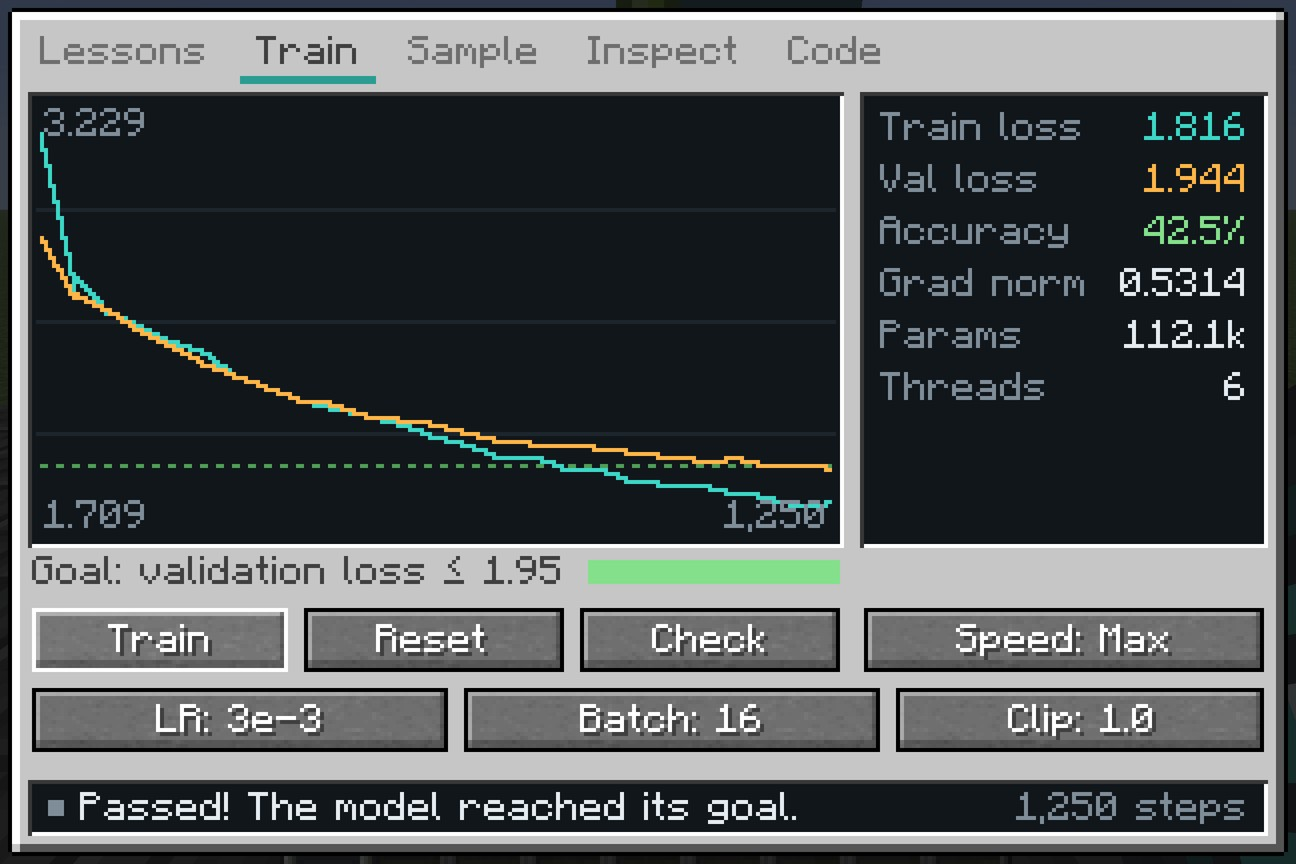
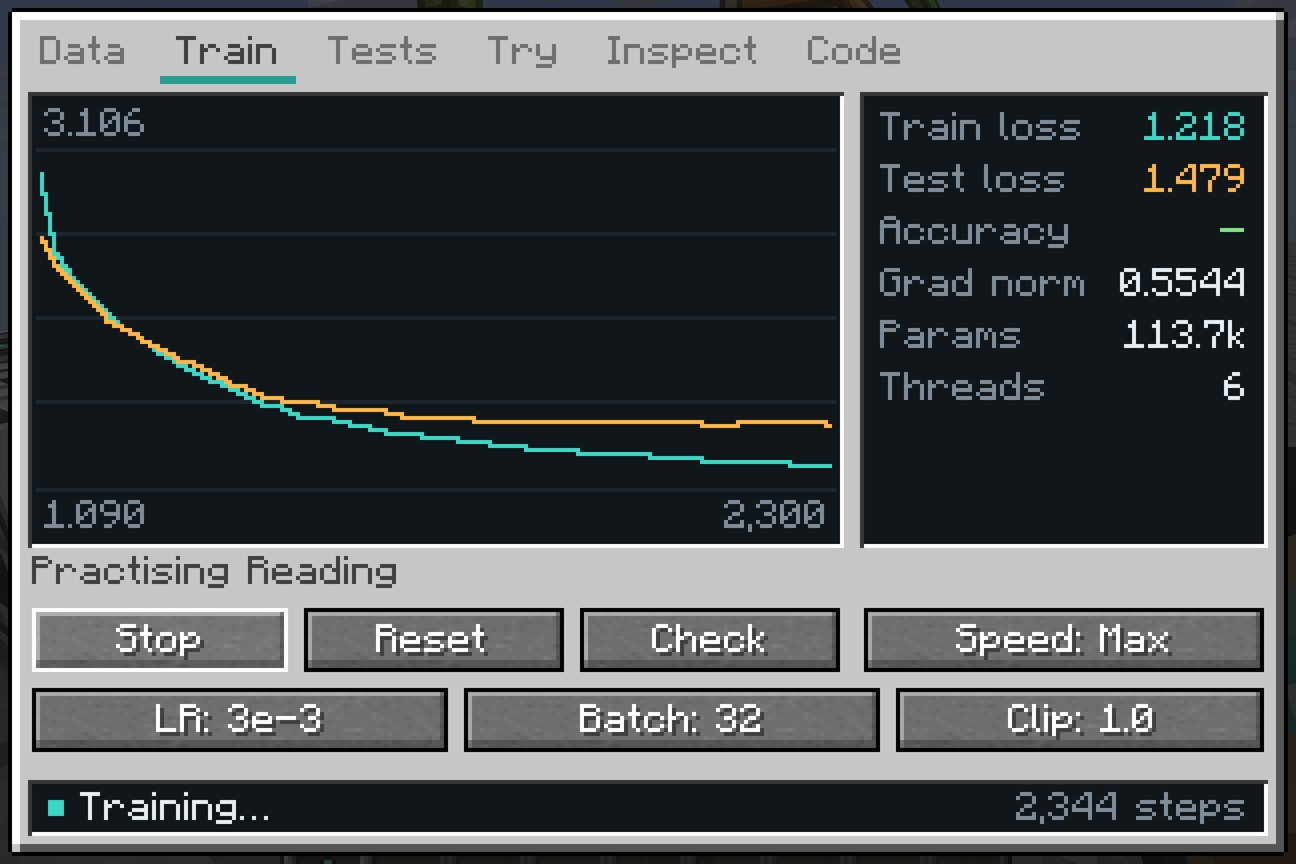
docs: describe the archive, minds and apprentices in the README
Shoot the screenshots in a generated world, by an archive house beside a river.

diff --git a/README.md b/README.md
@@ -2,82 +2,97 @@
 
 <img src="src/main/resources/residual_logo.png" alt="Residual" width="372">
 
-**Build a language model from the ground up, one block at a time.**
+**Build minds from the ground up, one block at a time.**
 
 </div>
 
-![A two-layer GPT built from Residual machines, with its Model Core and Training Accelerators in front](docs/images/world.jpg)
+![An apprentice farming by a ruined archive house, beside the model whose mind it carries](docs/images/world.jpg)
 
-Residual is a Minecraft mod that turns the inside of a language model into machines. Each machine performs one real
-operation: a table lookup, a matrix multiplication, a softmax, a whole transformer layer. Cable them together, connect
-the result to a Model Core, and train it on text while you watch the loss fall. The arithmetic is what PyTorch does,
-down to the optimizer, and every model you build can leave the game as a PyTorch module with its trained weights.
+Someone lived in this world before you. They built machines that thought, and they wrote everything down. Then they
+were gone, and nothing they left says why. Their writing survives in the ruins as broken shards.
 
-## Learn by building
+Residual is a Minecraft mod about building those minds again, and every mind is a real language model. Each machine
+performs one real operation: a table lookup, a matrix multiplication, a softmax, a whole transformer layer. Cable
+machines into a network, train it on text, test it on text it has never seen, and put it to work in the body of an
+apprentice. The arithmetic is what PyTorch does, down to the optimizer, and every mind can leave the game as a PyTorch
+module with its trained weights.
 
-Six lessons retrace how language models came to be, each after a paper. A lesson is done when your model reaches its
-goal on held-out text, or on fresh puzzles.
-
-|   | Lesson            | What you build                                            | Paper                          |
-| - | ----------------- | --------------------------------------------------------- | ------------------------------ |
-| 1 | Counting Pairs    | a table that scores the next letter from the last one     | Shannon, 1948                  |
-| 2 | More Context      | embeddings and a hidden layer over the last three letters | Bengio et al., 2003            |
-| 3 | Looking Things Up | attention, assembled by hand, to recall a digit           | Bahdanau, Cho and Bengio, 2014 |
-| 4 | Knowing Where     | positions and a transformer layer that reverses digits    | Vaswani et al., 2017           |
-| 5 | Induction Heads   | two attention layers that continue a repeated run         | Olsson et al., 2022            |
-| 6 | Language          | a small GPT that writes Shakespeare                       | Radford et al., 2019           |
-
-Between the lessons, five cases hand you a model that is broken the way real models break and leave the diagnosis to
-you: one that won't start, one whose loss explodes, one that scores too well to be true, one that can't reverse a
-string, and one too deep to learn. Every lesson awards an Insight, which unlocks the recipes of new machines.
+## The archive
 
 <p>
-<img src="docs/images/guide.jpg" alt="The guide's page on the Attention Head, with its formula" width="49%">
-<img src="docs/images/guide-scene.jpg" alt="A 3D scene in the guide: one way to build the Language lesson's model" width="49%">
+<img src="docs/images/ruin.jpg" alt="An archive house of calcite and tuff, one corner fallen in" width="49%">
+<img src="docs/images/reader.jpg" alt="The Reader restoring a record's lost text, block by block" width="49%">
 </p>
 
-The in-game guide has a page for every machine, lesson and case, with the formulas, the shapes, the PyTorch each
-machine stands for, and 3D scenes of reference builds that you can turn and zoom.
+Archive houses, relay masts and buried vaults stand far apart across the overworld. They hold archive shards, the
+schematics of machines whose plans were lost, and salvaged minds that no longer work.
 
-## The Model Core
+A shard is one record of the old world's archive, a letter or a journal, a story, a song, a manual or a notice, with
+some of its text worn away. Filed into an Archive Drive, what you recover becomes something to learn from: a mind that
+practises on it learns to read the way the old world wrote. A Reader restores lost text with a mind of your own, and a
+lost block comes back only if your mind can predict it. Each restored block is more text to learn from.
+
+## Minds
 
 <p>
-<img src="docs/images/train.jpg" alt="The Train tab: a loss curve that has fallen below the goal" width="49%">
-<img src="docs/images/sample.jpg" alt="The Sample tab: the trained model continues a prompt in the style of Shakespeare" width="49%">
+<img src="docs/images/tests.jpg" alt="The Tests tab: a mind's score on each of the six abilities" width="49%">
+<img src="docs/images/train.jpg" alt="The Train tab: the loss on practice and on the test" width="49%">
 </p>
+
+Every mind is tested on six abilities. A test uses examples that practice never shows, and a job asks its mind in
+exactly the test's format, so a test score is how often an apprentice decides right.
+
+| Ability   | Practice      | Passes at   | Put to work                  |
+| --------- | ------------- | ----------- | ---------------------------- |
+| Reacting  | Field Drill   | 98%         | farming                      |
+| Recall    | Storage Drill | 90%         | keeping a storeroom          |
+| Reversal  | Errand Drill  | 90%         | hauling                      |
+| Induction | Pattern Drill | 90%         | building                     |
+| Orders    | Orders Drill  | 90%         | understanding what you say   |
+| Reading   | Archive Drive | loss ≤ 1.70 | restoring the archive        |
+
+A single embedding table can learn to farm. Recall needs attention, reversal needs to know positions, induction takes
+two layers of attention, and understanding orders takes a mind too big to carry. The Model Core trains a mind on up to
+four kinds of practice at once and shows the learning curves, the tests, every machine's output shape, weights and
+gradient, and the mind as PyTorch code. Saving a mind to a checkpoint tests it on all six abilities first.
+
+## Apprentices
+
 <p>
-<img src="docs/images/inspect.jpg" alt="The Inspect tab: every machine's output shape, weights and gradient" width="49%">
-<img src="docs/images/code.jpg" alt="The Code tab: the model as a PyTorch module" width="49%">
+<img src="docs/images/apprentice.jpg" alt="An apprentice's screen: what it asked its mind, and what came back" width="49%">
+<img src="docs/images/terminal.jpg" alt="A Terminal: writing with a mind served from a Model Server" width="49%">
 </p>
 
-The Core feeds text into your machines and judges the scores that come back. It has five tabs:
+An apprentice is a body for a mind. It walks, reaps, carries and lays blocks on its own. Whenever there is a real
+decision to make (harvest, wait or plant; which chest the iron went into; the way home; the next block of a pattern;
+what you meant), it asks its mind in the format of the test and does what the mind answers. Its screen shows the
+question, the answer and how sure the mind was. A mind that passes its test at 98% decides right 98 times in 100.
 
-- **Lessons**: the course in order. Load a lesson, or build a case's broken model in front of the Core.
-- **Train**: the learning curve against the goal, the latest loss, accuracy and gradient norm, and the settings:
-  learning rate, batch size, gradient clipping and speed.
-- **Sample**: type the start of something and the model continues it, or watch it answer fresh puzzles.
-- **Inspect**: every machine in the order data reaches it, with its output shape, weights and last gradient.
-- **Code**: the model as a PyTorch module, generated from your machines.
+Say an order in chat, such as `Pip, bring me some bread`, and every apprentice named Pip within earshot hears it.
 
-Each Training Accelerator touching the Core lends it another thread. The machines show their work too: the front of
-each one displays its latest output, and the sides of machines that learn display their main weight matrix.
+## Serving minds
+
+An apprentice carries a mind of up to 40,000 parameters. A bigger mind stays in a Model Server and answers over relays.
+A Relay Card in an apprentice's mind slot asks the server instead, anywhere the relays reach. A Terminal lets you write
+with the served mind and carries your orders as far as the relays go. Training Accelerators give the Core more threads
+and the server more answers a second; kept cool by water, ice or snow, they work twice as hard.
 
 ## Real models
 
 Residual trains with its own reverse-mode autograd engine, written in Java to match PyTorch operation for operation,
-and with the same optimizer: AdamW with gradient clipping and a short warmup. A parity test replays the lessons'
-reference models and a model that uses every machine in PyTorch, and compares the logits, the loss, every gradient,
-and the weights after several optimizer steps. CI runs it on every push.
+and with the same optimizer: AdamW with gradient clipping and a short warmup. A parity test replays reference models and
+a model that uses every machine in PyTorch, and compares the logits, the loss, every gradient, and the weights after
+several optimizer steps. CI runs it on every push.
 
-The Language lesson's model is a two-layer GPT with four attention heads, a 64-wide residual stream and 112,065
-parameters. With four Training Accelerators, on six threads of an Apple M5 Pro, it reaches its goal, a validation loss
-of 1.95, in under two minutes.
+A two-layer GPT with four attention heads and a 64-wide residual stream has 113,742 parameters. Trained on every record
+a shard can carry, it reaches a loss of 1.37 on records it never saw, and the Reader restores 86% of the lost blocks it
+is given.
 
 **Export model + weights** on the Code tab writes `model.py` and `weights.bin` to `residual/exports` in your game
 folder. With PyTorch installed, the model runs outside the game:
 
 ```sh
-python model.py "ROMEO:"
+python model.py "Dear Sefa,"
 ```
 
 ## Install
@@ -86,12 +101,11 @@ Residual needs Minecraft 26.1.2, NeoForge 26.1.2.124 or newer, and [GuideME](htt
 26.1.16-beta or newer. Put the jar from [Releases](https://github.com/metrovoc/Residual/releases) in your `mods` folder
 next to GuideME.
 
-You get the guide the first time you join a world. The **?** button on the Model Core opens it at the selected
-lesson's page.
+You get the field notes the first time you join a world. Hold **G** over any Residual item to open its page.
 
 ### Modpack
 
-`Residual-1.0.0.mrpack`, also on the Releases page, sets up Residual with Applied Energistics 2, JEI, Jade, Sodium,
+`Residual-2.0.0.mrpack`, also on the Releases page, sets up Residual with Applied Energistics 2, JEI, Jade, Sodium,
 ModernFix and FerriteCore. Import it in Prism Launcher or the Modrinth App.
 
 ## Building
@@ -99,12 +113,12 @@ ModernFix and FerriteCore. Import it in Prism Launcher or the Modrinth App.
 Building needs Java 25.
 
 ```sh
-./gradlew build       # build/libs/residual-26.1.2-1.0.0.jar
+./gradlew build       # build/libs/residual-26.1.2-2.0.0.jar
 ./gradlew runClient
 ```
 
-The textures, the JSON data and the guide's formula images are generated by the scripts in `tools`, and their output
-is checked in. After changing a script, run it with [uv](https://docs.astral.sh/uv/):
+The textures, the JSON data, the ruins and the guide's formula images are generated by the scripts in `tools`, and
+their output is checked in. After changing a script, run it with [uv](https://docs.astral.sh/uv/):
 
 ```sh
 uv run --with pillow python tools/art.py
@@ -115,7 +129,7 @@ uv run --with matplotlib python tools/formulas.py
 The PyTorch parity test:
 
 ```sh
-RESIDUAL_PARITY_DIR=build/parity ./gradlew test --tests '*PyTorchParityTest*'
+RESIDUAL_PARITY_DIR=$PWD/build/parity ./gradlew test --rerun --tests '*PyTorchParityTest*'
 uv run --no-project --with torch --with numpy python src/test/python/parity.py build/parity
 ```
 
@@ -123,10 +137,23 @@ uv run --no-project --with torch --with numpy python src/test/python/parity.py b
 
 ## Credits
 
-- The word lessons read a sample of the word list from *Webster's Second International Dictionary* (1934), which is
-  in the public domain.
-- The Language lesson reads Tiny Shakespeare, the corpus Andrej Karpathy assembled for char-rnn.
-- The guide runs on [GuideME](https://github.com/AppliedEnergistics/GuideME).
+The machines are built on these ideas:
+
+- Claude Shannon, *A Mathematical Theory of Communication*, 1948.
+- Yoshua Bengio, Réjean Ducharme, Pascal Vincent and Christian Jauvin, *A Neural Probabilistic Language Model*, 2003.
+- Diederik Kingma and Jimmy Ba, *Adam: A Method for Stochastic Optimization*, 2014.
+- Dzmitry Bahdanau, Kyunghyun Cho and Yoshua Bengio, *Neural Machine Translation by Jointly Learning to Align and
+  Translate*, 2014.
+- Kaiming He, Xiangyu Zhang, Shaoqing Ren and Jian Sun, *Deep Residual Learning for Image Recognition*, 2015.
+- Jimmy Lei Ba, Jamie Ryan Kiros and Geoffrey Hinton, *Layer Normalization*, 2016.
+- Dan Hendrycks and Kevin Gimpel, *Gaussian Error Linear Units (GELUs)*, 2016.
+- Ashish Vaswani et al., *Attention Is All You Need*, 2017.
+- Ilya Loshchilov and Frank Hutter, *Decoupled Weight Decay Regularization*, 2017.
+- Alec Radford et al., *Language Models are Unsupervised Multitask Learners*, 2019.
+- Biao Zhang and Rico Sennrich, *Root Mean Square Layer Normalization*, 2019.
+- Catherine Olsson et al., *In-context Learning and Induction Heads*, 2022.
+
+The guide runs on [GuideME](https://github.com/AppliedEnergistics/GuideME).
 
 ## License
 
